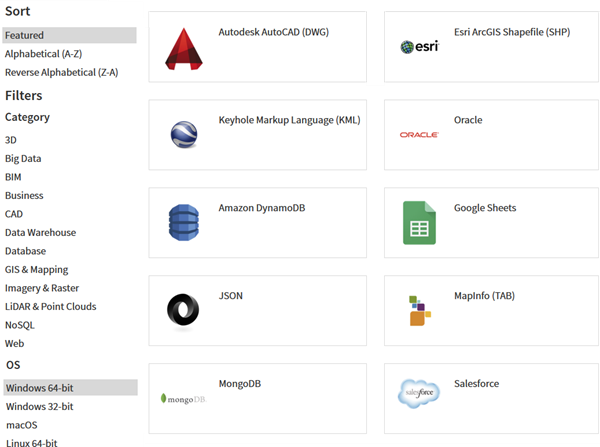
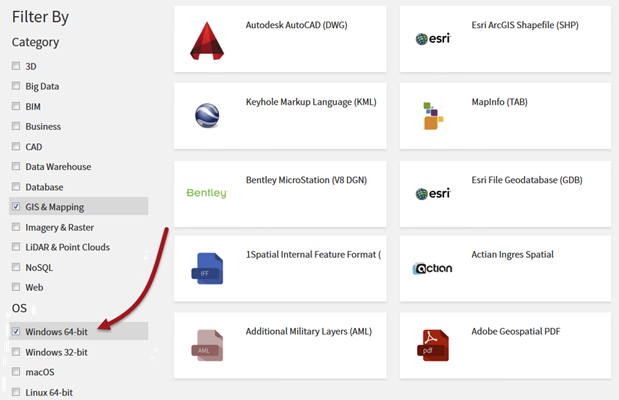
2017.1 Chapter 2 Content Updates

diff --git a/DesktopAdvanced2Performance/2.14.TransformationOptimization.md b/DesktopAdvanced2Performance/2.14.TransformationOptimization.md
@@ -1,6 +1,6 @@
 # Transformation Optimization #
 
-As with Readers and Writers, you can’t make performance improvements unless you can accurately interpret a log file and measure a baseline performance for your translations. 
+As with readers and writers, you can’t make performance improvements unless you can accurately interpret a log file and measure a baseline performance for your translations. 
 
 There are two aspects to transformation performance: the time taken and the amount of memory used.
 
@@ -10,15 +10,15 @@ There are two aspects to transformation performance: the time taken and the amou
 
 Assessing the time taken in transformation requires a two-step process. 
 
-First disable Writers and run the translation, taking a note of the elapsed time: 
+First disable writers and run the translation, taking a note of the elapsed time: 
 
 ![](./Images/Img2.028.TransformerPerformanceDisableWriter.png)
 
 Then disable the transformers too and run the workspace again, to calculate the time taken to read the data only. The difference in elapsed time between reading the data and reading/transforming the data, is the elapsed transformation type.
 
-It's important not to add an Inspector or Logger transformer to the end to see what is happening to the output. This will only slow the translation down and give you a false measure. You must also be sure to disable the actual Writer, and not just the feature types or connections to them.
+It's important not to add an Inspector or Logger transformer to the end to see what is happening to the output. This will only slow the translation down and give you a false measure. You must also be sure to disable the actual writer, and not just the feature types or connections to them.
 
-The only Writer that is useful in this scenario is the Null format Writer. This causes a Writer to be present, but it does nothing except to count features and then discard them. The benefit is improved logging of feature counts, but without any data having to be written.
+The only writer that is useful in this scenario is the Null format writer. This causes a writer to be present, but it does nothing except to count features and then discard them. The benefit is improved logging of feature counts, but without any data having to be written.
 
 With the above workspace if, for example, it took 5.4 seconds to read the data, and the whole process (excluding writing) took 28.2 seconds, I can infer that the transformation part takes 22.8 seconds.
 

diff --git a/DesktopAdvanced2Performance/2.06.TranslationTransformationSection.md b/DesktopAdvanced2Performance/2.06.TranslationTransformationSection.md
@@ -10,7 +10,7 @@ As you might know, some transformers operate on a feature-by-feature basis, whil
 
 When a series of transformers are all feature-based, FME works by pushing features through on an individual basis, not as a group. For example, the first feature is read and then processed by each transformer in turn. Then the next feature is read and processed by each transformer, and so on.
 
-This makes for a log file that is harder to understand, because you don’t see one specific entry for each Reader or transformer in turn. Nor do you see a message for each feature. Instead, a cumulative time is calculated and output at regular time-based intervals.
+This makes for a log file that is harder to understand, because you don’t see one specific entry for each reader or transformer in turn. Nor do you see a message for each feature. Instead, a cumulative time is calculated and output at regular time-based intervals.
 
 ---
 
@@ -57,7 +57,7 @@ By checking the timestamp for this message you can get an approximate value for 
 Unexpected Input Remover
 </pre>
 
-This message denotes where features read by a Reader are tested against the available feature types (and merge filters) to see if they will be allowed to pass into the workspace. 
+This message denotes where features read by a reader are tested against the available feature types (and merge filters) to see if they will be allowed to pass into the workspace. 
 
 This message may indicate a performance issue as it highlights potentially unnecessary work, where features are being read but not used in the translation.
 

diff --git a/DesktopAdvanced2Performance/2.03.LogFileInterpretation.md b/DesktopAdvanced2Performance/2.03.LogFileInterpretation.md
@@ -51,11 +51,13 @@ The Log Debug option turns on a series of extra log messages that are usually hi
 
 ---
 
+<!--Warning Section--> 
+
 <table style="border-spacing: 0px">
 <tr>
 <td style="vertical-align:middle;background-color:darkorange;border: 2px solid darkorange">
-<i class="fa fa-quote-left fa-lg fa-pull-left fa-fw" style="color:white;padding-right: 12px;vertical-align:text-top"></i>
-<span style="color:white;font-size:x-large;font-weight: bold;font-family:serif">Jake Speedie says…</span>
+<i class="fa fa-exclamation-triangle fa-lg fa-pull-left fa-fw" style="color:white;padding-right: 12px;vertical-align:text-top"></i>
+<span style="color:white;font-size:x-large;font-weight: bold;font-family:serif">WARNING</span>
 </td>
 </tr>
 
@@ -63,6 +65,7 @@ The Log Debug option turns on a series of extra log messages that are usually hi
 <td style="border: 1px solid darkorange">
 <span style="font-family:serif; font-style:italic; font-size:larger">
 Debug messages can help during debugging, but it’s very unlikely you’ll want to keep them turned on in general FME use. Many of the BADNEWS messages are “errors” that FME has trapped and kept to itself (like an end-of-file message). 
+<br><br>Also note that the Log Debug setting persists in the workspace; in other words if you turn that setting on and pass the workspace to another user, it will retain the setting and show debug messages when that other user runs the workspace!
 </span>
 </td>
 </tr>

diff --git a/DesktopAdvanced2Performance/2.11.ImprovingReaderPerformance.md b/DesktopAdvanced2Performance/2.11.ImprovingReaderPerformance.md
@@ -45,7 +45,7 @@ Other formats – particularly databases – have additional clauses that can he
 
 ![](./Images/Img2.016.ImprovingReaderPerformanceSQLWhere.png)
 
-Here, for example, this Geodatabase Reader has a ‘WHERE Clause’ parameter that applies the "owner name begins with 'C' test" in a way that is more efficient than reading the entire contents of a large table and using a Tester transformer.
+Here, for example, this Geodatabase reader has a ‘WHERE Clause’ parameter that applies the "owner name begins with 'C' test" in a way that is more efficient than reading the entire contents of a large table and using a Tester transformer.
 
 ![](./Images/Img2.017.ImprovingReaderPerformanceSQLWhereResults.png)
 
@@ -62,7 +62,7 @@ Here, for example, this Geodatabase Reader has a ‘WHERE Clause’ parameter th
 <tr>
 <td style="border: 1px solid darkorange">
 <span style="font-family:serif; font-style:italic; font-size:larger">
-In short, when you want to filter source data, and can use a specific Reader parameter to do so, it is more efficient than reading all of the source data and then filtering it with a transformer.
+In short, when you want to filter source data, and can use a specific reader parameter to do so, it is more efficient than reading all of the source data and then filtering it with a transformer.
 </span>
 </td>
 </tr>

diff --git a/DesktopAdvanced2Performance/2.13.ImprovingWriterPerformance.md b/DesktopAdvanced2Performance/2.13.ImprovingWriterPerformance.md
@@ -22,7 +22,7 @@ More information on database performance with FME comes in a later section.
 
 ### Multiple Writers ###
 
-Perhaps the most important technique for improving Writer performance involves the scenario where a workspace has multiple writers. 
+Perhaps the most important technique for improving writer performance involves the scenario where a workspace has multiple writers. 
 
 In short, it’s important to get the writers into the optimum order, to ensure that the writer that is to receive the largest amount of data is written first.
 
@@ -83,7 +83,7 @@ This parameter can be left to *Position in Workbench Navigator* in which case th
 <tr>
 <td style="border: 1px solid darkorange">
 <span style="font-family:serif; font-style:italic; font-size:larger">
-Given this screenshot, which should we make the first Writer in this workspace?
+Given this screenshot, which should we make the first writer in this workspace?
 <br><br><img src="./Images/Img2.027.WriterPerformanceQuestion.png"> 
 <br><br><a href="http://52.73.3.37/fmedatastreaming/Manual/QAResponse2017.fmw?chapter=12&question=3&answer=1&DestDataset_TEXTLINE=C%3A%5CFMEOutput%5CQAResponse.html">1. A</a>
 <br><a href="http://52.73.3.37/fmedatastreaming/Manual/QAResponse2017.fmw?chapter=12&question=3&answer=2&DestDataset_TEXTLINE=C%3A%5CFMEOutput%5CQAResponse.html">2. B</a>

diff --git a/DesktopAdvanced2Performance/2.07.LogSummarySection.md b/DesktopAdvanced2Performance/2.07.LogSummarySection.md
@@ -16,9 +16,9 @@ Peak memory usage is an important statistic. It signifies how hard FME is having
 
 One of the most misinterpreted statistics in an FME log is the number of features written.
 
-What this really means is “the number of features sent to the Writer”. It doesn’t always mean the same number of features actually gets written to the output dataset, or that the output dataset will contain only that number of features.
+What this really means is “the number of features sent to the writer”. It doesn’t always mean the same number of features actually gets written to the output dataset, or that the output dataset will contain only that number of features.
 
-For example, in the above screenshot 416 features are reported as sent to a writer. But, for example, if it were an (Esri Shape) writer a warning earlier in the log might appear:
+For example, in the above screenshot 416 features are reported as sent to a writer. But, for example, if it were an (Esri Shapefile) writer a warning earlier in the log might appear:
 
 ![](./Images/Img2.010.LogSummarySectionRejectedFeatures.png)
 

diff --git a/DesktopAdvanced2Performance/2.20.ParallelProcessing.md b/DesktopAdvanced2Performance/2.20.ParallelProcessing.md
@@ -59,7 +59,7 @@ For example, this Bufferer transformer is set up to buffer a set of street featu
 
 ![](./Images/Img2.042.ParallelProcessingBuffererExample.png)
 
-Each street (i.e. each feature with the same street name) will be processed as a separate group. To speed up the translation, each group is being handled as a separate process (sadly the user cannot confirm the source data is already ordered by group, which would improve performance even more).
+Each street (i.e. each feature with the same street name) will be processed as a separate group. To speed up the translation, each group is being handled as a separate process (sadly the user cannot confirm that the source data is already ordered by group, which would improve performance even more).
 
 When a translation is run in parallel mode, then a number of “worker” processes appear in your process manager:
 

diff --git a/DesktopAdvanced2Performance/2.16.ImprovingTransformationPerformance2.md b/DesktopAdvanced2Performance/2.16.ImprovingTransformationPerformance2.md
@@ -131,7 +131,7 @@ Basically, you should only carry through the translation any geometry and attrib
 <td style="border: 1px solid darkorange">
 <span style="font-family:serif; font-style:italic; font-size:larger">
 If you aren’t debugging a translation, then avoid using the Run with Full Inspection option. It stashes all data for every connection in the workspace, meaning performance is significantly reduced.
-<br><br>Similarly, if you aren’t debugging a translation there’s no need for Logger or Inspector transformers. Remove – or disable – them and your workspace will run more efficiently.
+<br><br>Similarly, if you aren’t debugging a translation there’s no need for Logger or Inspector transformers. Remove or disable them and your workspace will run more efficiently.
 </span>
 </td>
 </tr>

diff --git a/DesktopAdvanced2Performance/2.10.AssessingReaderPerformance.md b/DesktopAdvanced2Performance/2.10.AssessingReaderPerformance.md
@@ -1,6 +1,6 @@
 ## Assessing Reader Performance ##
 
-To be able to improve the efficiency of a Reader requires an estimate of how well it is working in the first instance; yet this can be hard to separate out in a workspace that is also transforming data.
+To be able to improve the efficiency of a reader requires an estimate of how well it is working in the first instance; yet this can be hard to separate out in a workspace that is also transforming data.
 
 The key message that signifies reading is complete is “Emptying Factory Pipeline”. Here, for example, reading of the data finished after 144 seconds of processing (of course the actual elapsed time might be longer if FME was waiting for a database or the file system to respond):
 

diff --git a/DesktopAdvanced2Performance/2.02.64bitFME.md b/DesktopAdvanced2Performance/2.02.64bitFME.md
@@ -40,7 +40,7 @@ Not a limitation, but 64-bit does require care in selecting the correct database
 <td style="border: 1px solid darkorange">
 <span style="font-family:serif; font-style:italic; font-size:larger">
 Hi, I'm Jake Speedie and I'm here to power you through this section on FME performance.
-<br><br>The Safe Software web site has a <a href="http://safe.com/formats">table of supported formats</a> that can be sorted and filtered to show which are supported on 64-bit:
+<br><br>The Safe Software web site has a <a href="http://safe.com/formats">table of supported formats</a> that can be filtered to show (among other things) which are supported on 64-bit:
 <br><br><img src="./Images/Img2.001.FormatsListOnWebSite.png">
 </span>
 </td>

diff --git a/DesktopAdvanced2Performance/2.01.PerformanceAndFME.md b/DesktopAdvanced2Performance/2.01.PerformanceAndFME.md
@@ -6,7 +6,7 @@ Performance means producing the results you need as efficiently as possible.
 
 According to [Wikipedia](https://en.wikipedia.org/wiki/Computer_performance), performance is a measure of the amount of useful work accomplished relative to the time and resources used.
 
-In FME terms, good performance is the ability to process spatial and tabular data with the correct results (useful) as fast as possible (time) and using as few system resources – like memory – as possible.
+In FME terms, good performance is the ability to process spatial and tabular data with the correct results (useful) as fast as possible (time) and using as little memory and disk space (resources) as possible.
 
 
 ## What Can Impair Performance? ##

diff --git a/WhatsNew.md b/WhatsNew.md
@@ -177,6 +177,11 @@ These changes are for the FME Desktop Advanced Training Course.
 - Exercise 4: Garbage Schedule workspace updated to use new HTML tools 
 - Exercise 5a: Fixed workspace, which I don't think ever worked properly because of a coordsys mismatch
 
+**2017.1**
+
+- Mentioned Log Debug persists with the workspace (see 2.03.LogFileInterpretation). Not new for .1 but worth knowing about.
+
+
 ### Custom Transformers ###
 - Renumbered image filenames to 3 digits (eg Img3.001.xxxx.png)
 - Custom transformer input ports seem to need to be clicked twice before F2 (or any other keyboard command) works. Filed as PR#75968
